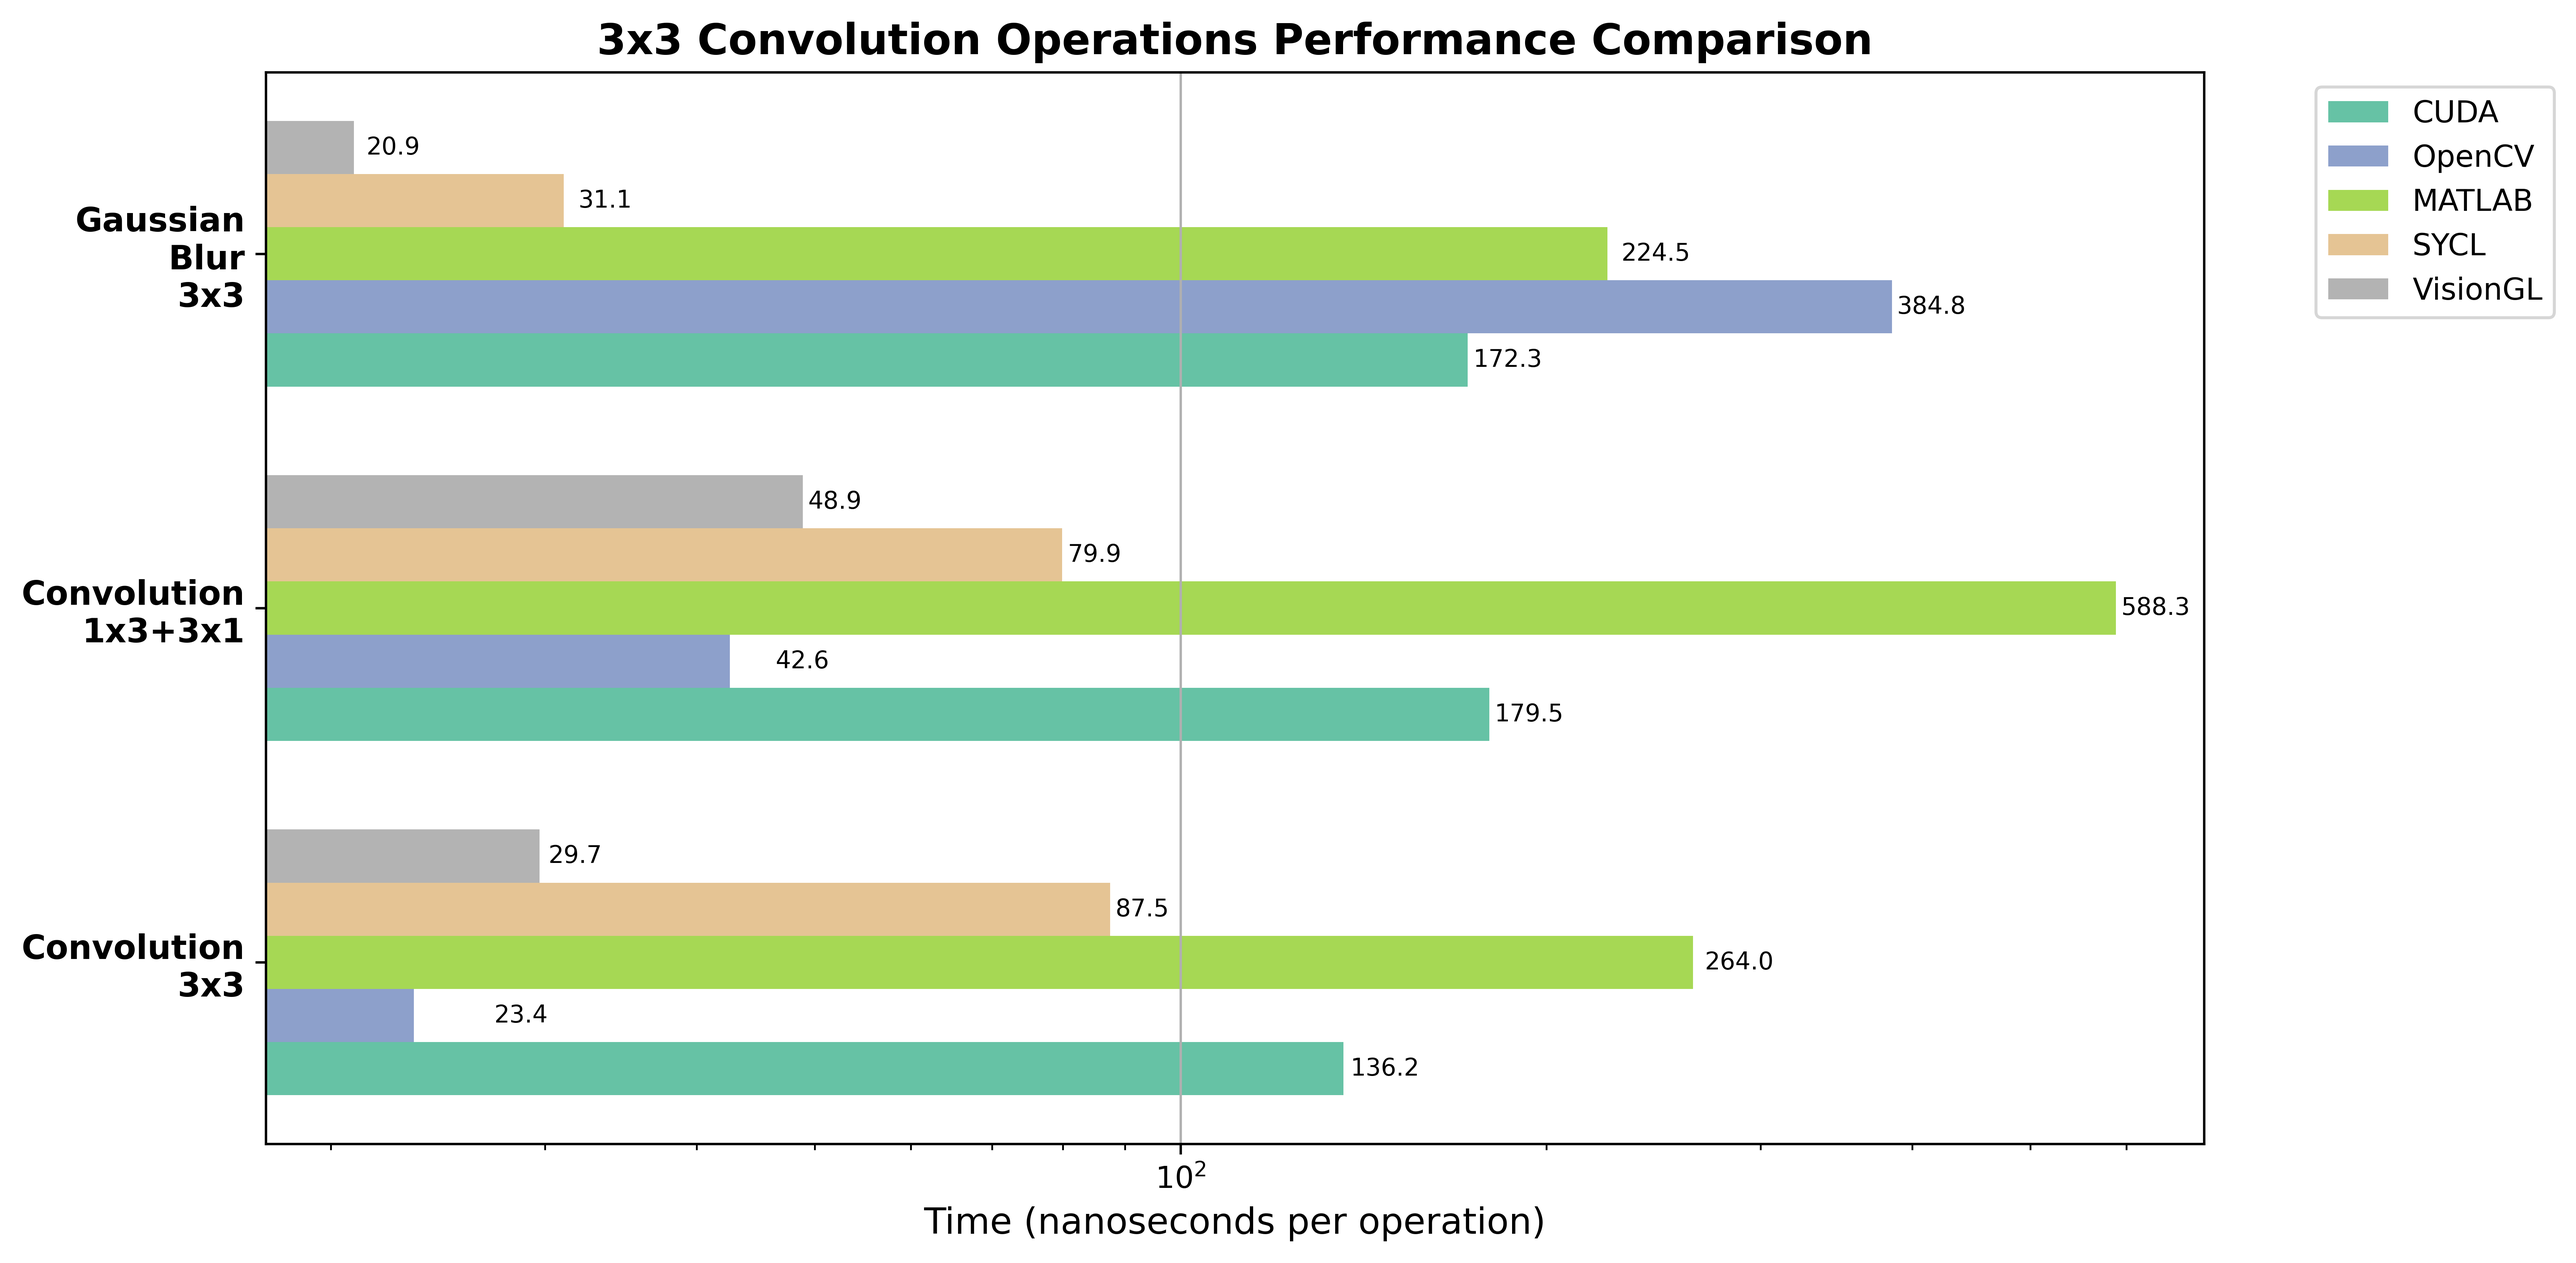
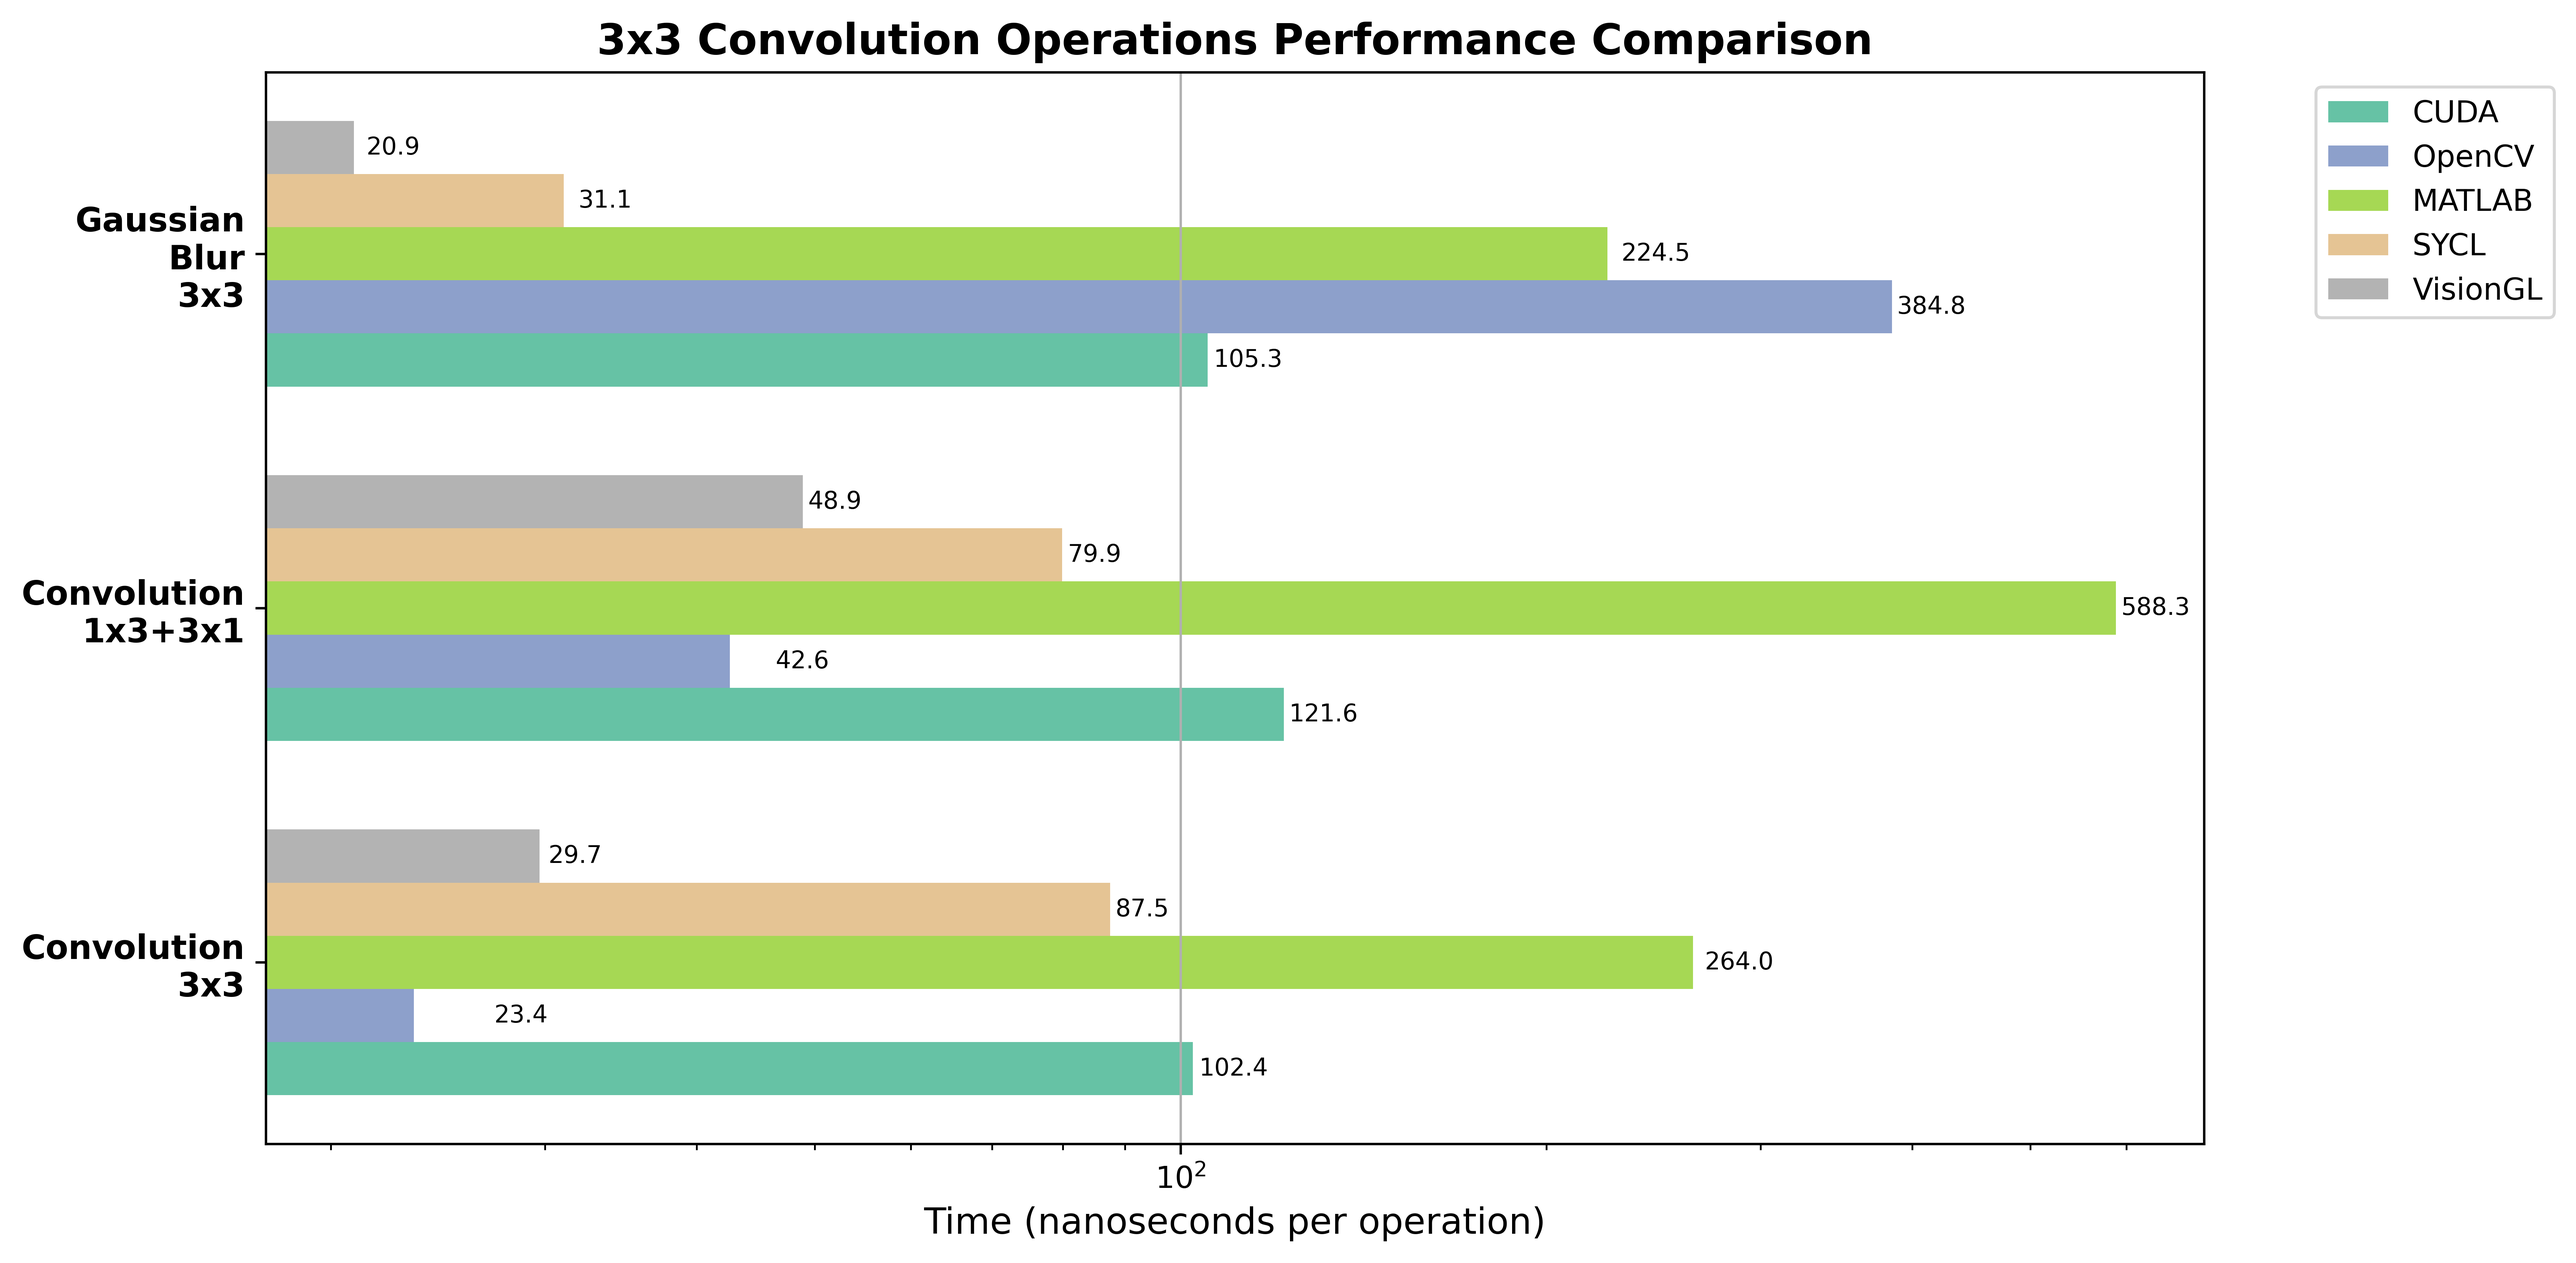
Refact CUDA by removing channel thread

Changed region(s): [[0.4668, 0.2493, 0.5913, 0.3116], [0.498, 0.5297, 0.5913, 0.5921], [0.4357, 0.8102, 0.5291, 0.8725]]

diff --git a/README.md b/README.md
@@ -47,20 +47,20 @@ You can find this image as **dr_15.JPG** zipped in **images of eyes with diabeti
 
 | Operations                                 | Once               | Repeatedly                |
 |--------------------------------------------|-------------------:|--------------------------:|
-| Upload                                     |   0.005883s (once) |   0.005458s (10000 times) |
-| Download                                   |    0.00586s (once) |   0.005874s (10000 times) |
-| Copy                                       |     4.3e-5s (once) |   0.000518s (10000 times) |
-| Inversion                                  |   0.353851s (once) |   0.000504s (10000 times) |
-| Grayscale                                  |    0.42339s (once) |   0.000506s (10000 times) |
-| Threshold                                  |   0.056147s (once) |   0.000520s (10000 times) |
-| Erosion (3x3 Cross Kernel)                 |   0.110748s (once) |   0.001728s (10000 times) |
-| Erosion (3x3 Square Kernel)                |     3.4e-5s (once) |   0.002040s (10000 times) |
-| Erosion (1x3+3x1 Square Kernel)            |     3.6e-5s (once) |   0.002638s (10000 times) |
-| Convolution (3x3 Gaussian Blur Kernel)     |   0.075422s (once) |   0.001362s (10000 times) |
-| Convolution (1x3+3x1 Gaussian Blur Kernel) |     3.7e-5s (once) |   0.001795s (10000 times) |
-| Convolution (5x5 Gaussian Blur Kernel)     |     3.4e-5s (once) |   0.002530s (10000 times) |
-| Convolution (1x5+5x1 Gaussian Blur Kernel) |     3.7e-5s (once) |   0.002187s (10000 times) |
-| Gaussian Blur (3x3 Kernel)                 |   0.104005s (once) |   0.001723s (10000 times) |
+| Upload                                     |   0.005696s (once) |   0.005212s (10000 times) |
+| Download                                   |   0.006142s (once) |   0.006028s (10000 times) |
+| Copy                                       |     4.0e-5s (once) |   0.000482s (10000 times) |
+| Inversion                                  |   0.357799s (once) |   0.000463s (10000 times) |
+| Grayscale                                  |   0.061635s (once) |   0.000462s (10000 times) |
+| Threshold                                  |   0.066292s (once) |   0.000463s (10000 times) |
+| Erosion (3x3 Cross Kernel)                 |   0.154804s (once) |   0.000955s (10000 times) |
+| Erosion (3x3 Square Kernel)                |     3.3e-5s (once) |   0.001264s (10000 times) |
+| Erosion (1x3+3x1 Square Kernel)            |     3.5e-5s (once) |   0.001530s (10000 times) |
+| Convolution (3x3 Gaussian Blur Kernel)     |   0.067512s (once) |   0.001024s (10000 times) |
+| Convolution (1x3+3x1 Gaussian Blur Kernel) |     4.5e-5s (once) |   0.001216s (10000 times) |
+| Convolution (5x5 Gaussian Blur Kernel)     |     3.3e-5s (once) |   0.002268s (10000 times) |
+| Convolution (1x5+5x1 Gaussian Blur Kernel) |     3.6e-5s (once) |   0.001533s (10000 times) |
+| Gaussian Blur (3x3 Kernel)                 |   0.112115s (once) |   0.001053s (10000 times) |
 
 #### [OpenCV](benchmarks/opencv/)
 
